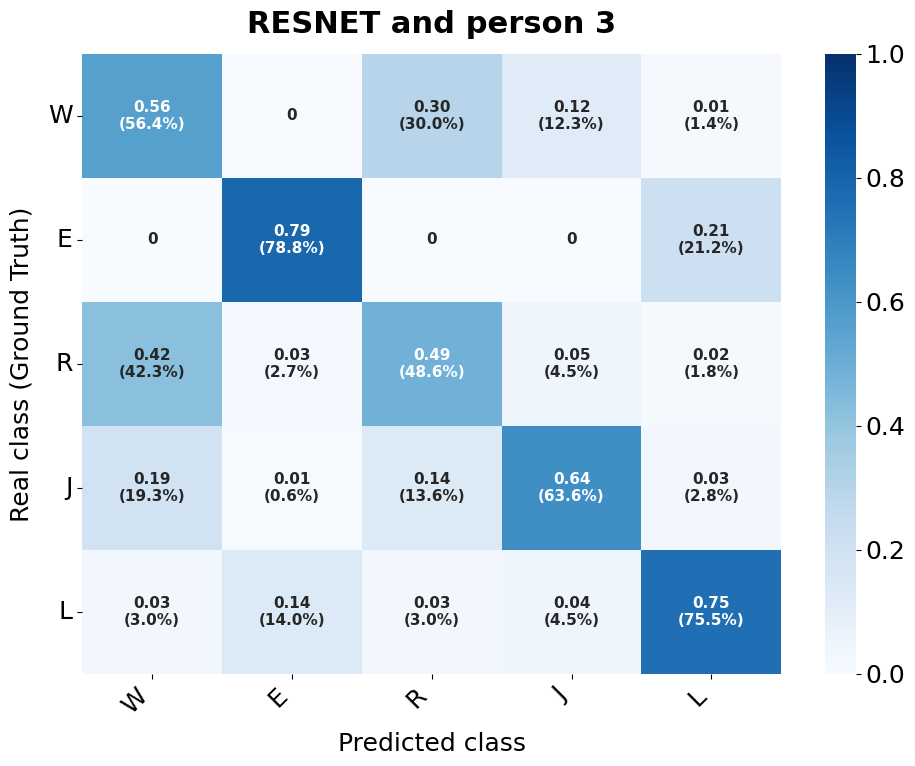
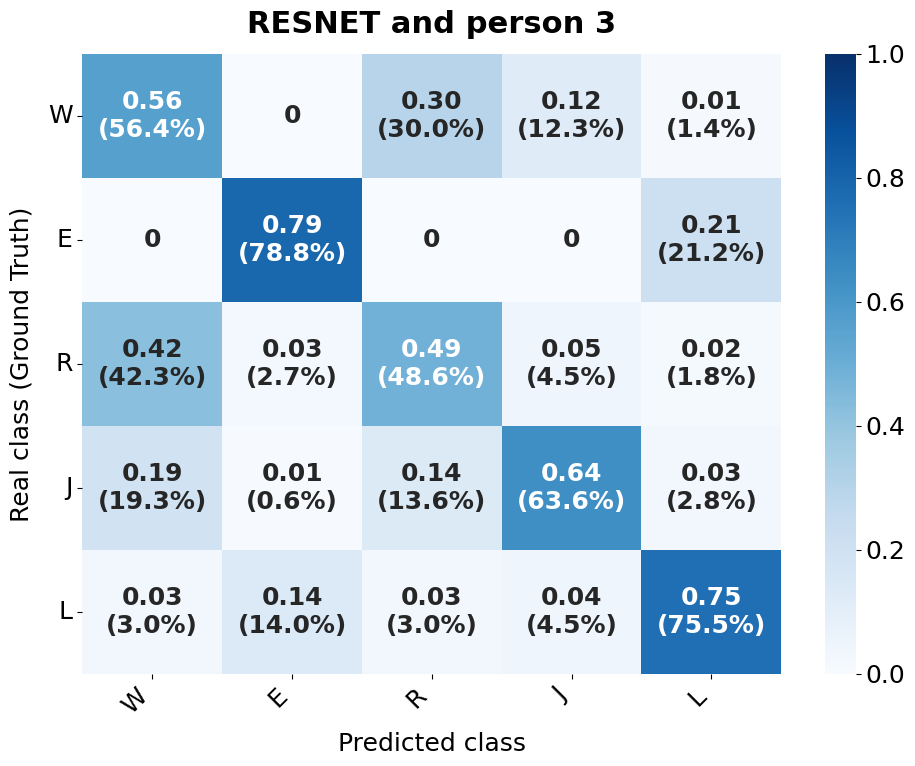
tabelle latex

diff --git a/utilities/plotting.py b/utilities/plotting.py
@@ -126,7 +126,7 @@ def plot_confusion_matrix(cm, class_names, title=""):
         yticklabels=class_names,
         vmin=0.0,
         vmax=1.0,
-        annot_kws={"size": 11, "weight": "bold"} # Font dei numeri dentro le celle
+        annot_kws={"weight": "bold"} # Font dei numeri dentro le celle
     )
     
     # Label e formattazione assi
